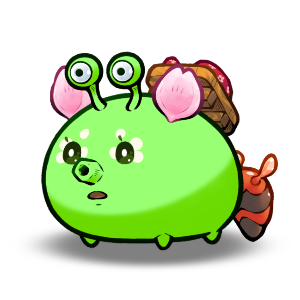
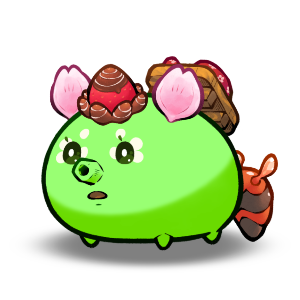
Atualizacao automatica de levels, morph e imagens
Claude-Session: https://claude.ai/code/session_01VgEGEYAHaiMYE9REpNBhF8

Changed region(s): [[0.21, 0.15, 0.51, 0.42]]

diff --git a/data.js b/data.js
@@ -48,7 +48,7 @@ const AXIE_DATA = [
     },
     "isMorphed": true,
     "morphParts": null,
[2 lines of base64/hex data omitted]
     "level": 60
   },
   {
@@ -15806,7 +15806,7 @@ const AXIE_DATA = [
     },
     "isMorphed": true,
     "morphParts": null,
[2 lines of base64/hex data omitted]
     "level": 60
   },
   {
@@ -18291,7 +18291,7 @@ const AXIE_DATA = [
     "isMorphed": true,
     "morphParts": null,
[1 lines of base64/hex data omitted]
-    "level": 24
+    "level": 25
   },
   {
     "id": "10768608",
